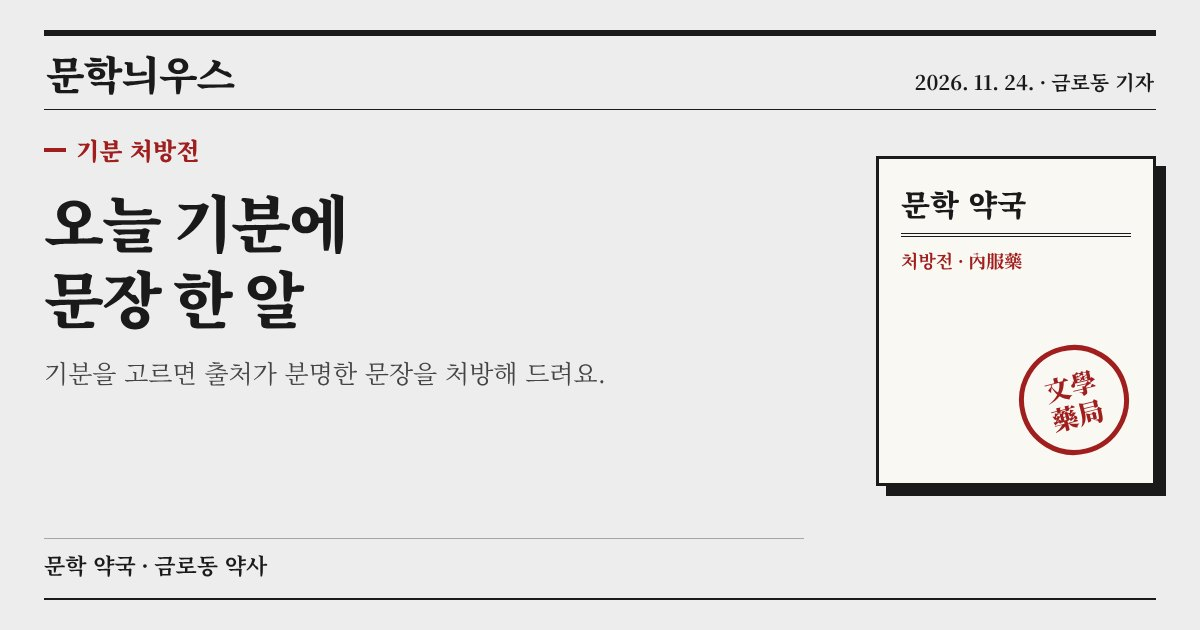
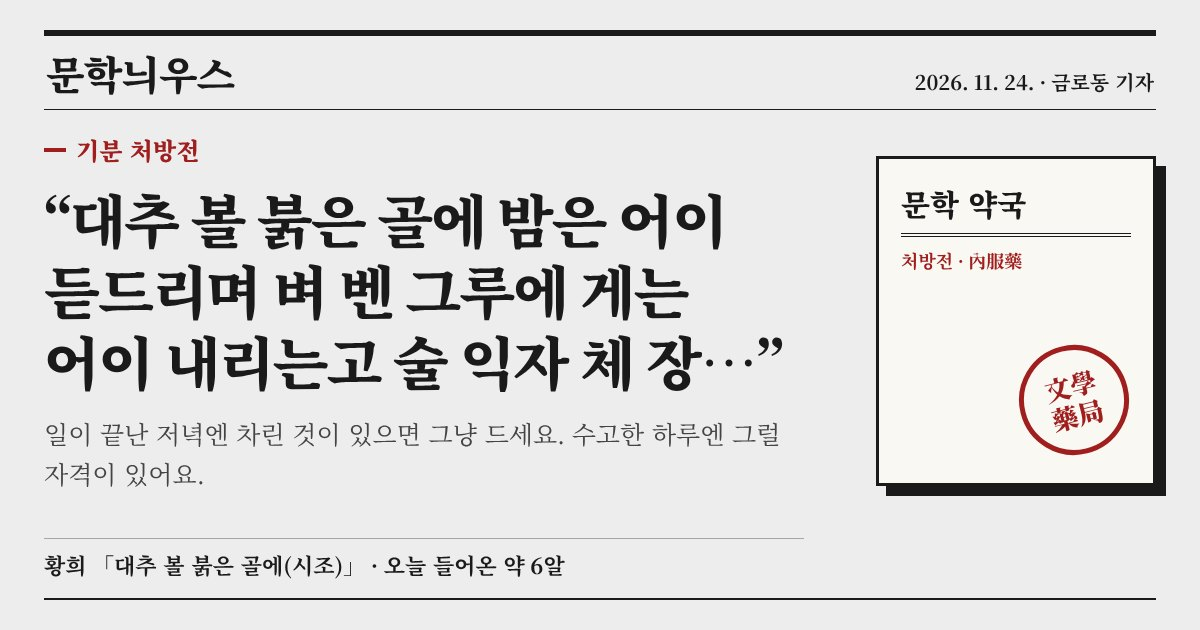
처방전 오늘 들어온 약 날짜를 11/24로
Claude-Session: https://claude.ai/code/session_01XJFm6VWZnChnjgj6uo57oF

diff --git a/s/2026-11-24-rx.html b/s/2026-11-24-rx.html
@@ -1,23 +1,23 @@
 <!doctype html>
 <html lang="ko"><head><meta charset="utf-8">
 <meta name="viewport" content="width=device-width,initial-scale=1">
-<meta name="share-sig" content="a2ce733bd1">
+<meta name="share-sig" content="7dcb3cb662">
 <meta name="robots" content="noindex,follow">
-<title>기분 처방전 · 오늘 기분에 맞는 문장 한 알 · 문학늬우스</title>
-<meta name="description" content="지쳤어요·울적해요·불안해요·화나요·설레요·멍해요 — 기분을 고르면 금로동 약사가 문장 한 알을 지어 드립니다.">
+<title>기분 처방전 · 오늘 들어온 약 “대추 볼 붉은 골에 밤은 어이 듣드리며 / 벼 벤 그루에 게는 어이 내…” — 황희 「대추 볼 붉은 골에(시조)」 · 문학늬우스</title>
+<meta name="description" content="일이 끝난 저녁엔 차린 것이 있으면 그냥 드세요. 수고한 하루엔 그럴 자격이 있어요. · 오늘 들어온 약 6알: 윤동주 「팔복」, 윌리엄 셰익스피어 「햄릿(2막 2장)」, 윌리엄 셰익스피어 「베니…">
 <meta property="og:type" content="article">
 <meta property="og:site_name" content="문학늬우스">
-<meta property="og:title" content="기분 처방전 · 오늘 기분에 맞는 문장 한 알">
-<meta property="og:description" content="지쳤어요·울적해요·불안해요·화나요·설레요·멍해요 — 기분을 고르면 금로동 약사가 문장 한 알을 지어 드립니다.">
+<meta property="og:title" content="기분 처방전 · 오늘 들어온 약 “대추 볼 붉은 골에 밤은 어이 듣드리며 / 벼 벤 그루에 게는 어이 내…” — 황희 「대추 볼 붉은 골에(시조)」">
+<meta property="og:description" content="일이 끝난 저녁엔 차린 것이 있으면 그냥 드세요. 수고한 하루엔 그럴 자격이 있어요. · 오늘 들어온 약 6알: 윤동주 「팔복」, 윌리엄 셰익스피어 「햄릿(2막 2장)」, 윌리엄 셰익스피어 「베니…">
 <meta property="og:url" content="https://mnews.jintar.co.kr/s/2026-11-24-rx.html">
 <meta property="og:image" content="https://mnews.jintar.co.kr/s/2026-11-24-rx.jpg">
 <meta property="og:image:width" content="1200"><meta property="og:image:height" content="630">
 <meta property="og:locale" content="ko_KR">
 <meta name="twitter:card" content="summary_large_image">
-<meta name="twitter:title" content="기분 처방전 · 오늘 기분에 맞는 문장 한 알">
-<meta name="twitter:description" content="지쳤어요·울적해요·불안해요·화나요·설레요·멍해요 — 기분을 고르면 금로동 약사가 문장 한 알을 지어 드립니다.">
+<meta name="twitter:title" content="기분 처방전 · 오늘 들어온 약 “대추 볼 붉은 골에 밤은 어이 듣드리며 / 벼 벤 그루에 게는 어이 내…” — 황희 「대추 볼 붉은 골에(시조)」">
+<meta name="twitter:description" content="일이 끝난 저녁엔 차린 것이 있으면 그냥 드세요. 수고한 하루엔 그럴 자격이 있어요. · 오늘 들어온 약 6알: 윤동주 「팔복」, 윌리엄 셰익스피어 「햄릿(2막 2장)」, 윌리엄 셰익스피어 「베니…">
 <meta name="twitter:image" content="https://mnews.jintar.co.kr/s/2026-11-24-rx.jpg">
 <link rel="icon" href="../favicon.svg" type="image/svg+xml">
 <script>location.replace("../?d=2026-11-24#rx")</script>
 <style>body{font-family:"Noto Serif KR",serif;background:#EDEDED;color:#1A1A1A;margin:0;display:grid;place-items:center;min-height:100vh;text-align:center;padding:24px}a{color:inherit}</style>
-</head><body><p><b>문학늬우스</b><br>기분 처방전 · 오늘 기분에 맞는 문장 한 알<br><br><a href="../?d=2026-11-24#rx">지면에서 보기 →</a></p></body></html>
+</head><body><p><b>문학늬우스</b><br>기분 처방전 · 오늘 들어온 약 “대추 볼 붉은 골에 밤은 어이 듣드리며 / 벼 벤 그루에 게는 어이 내…” — 황희 「대추 볼 붉은 골에(시조)」<br><br><a href="../?d=2026-11-24#rx">지면에서 보기 →</a></p></body></html>
